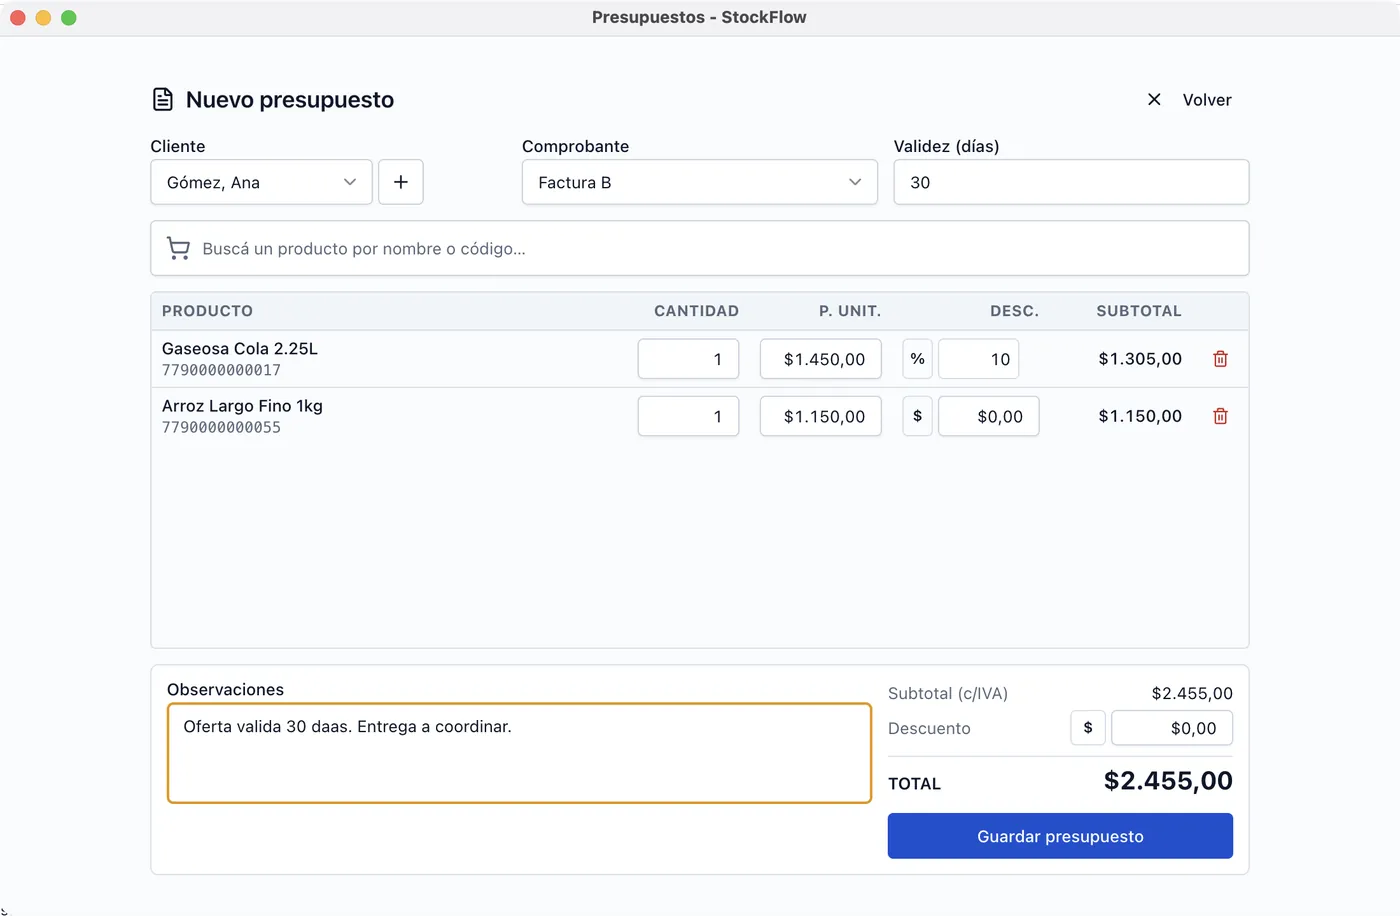
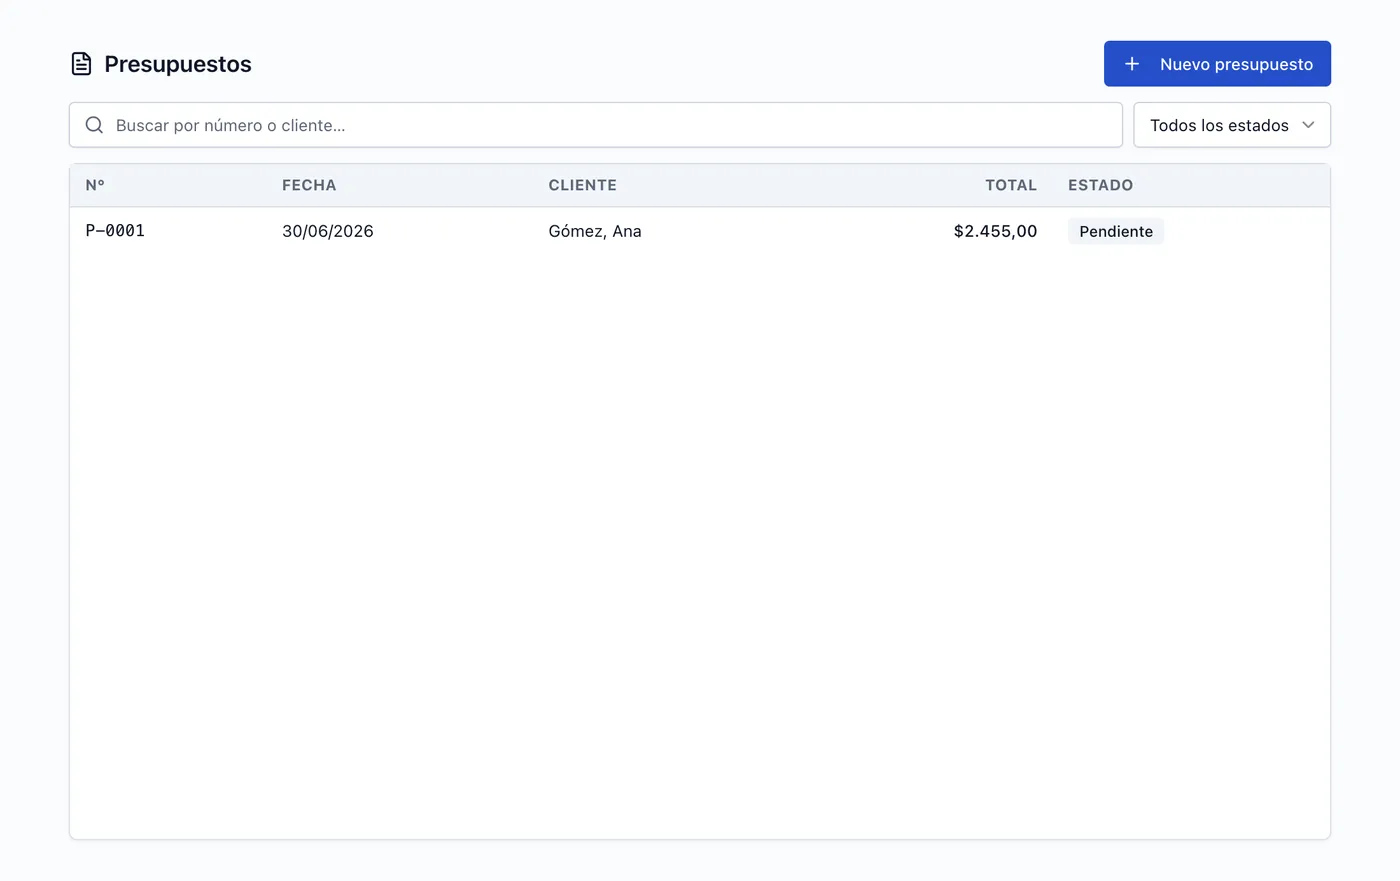
marketing(landing): vuelve el carrusel del hero con capturas NUEVAS de v0.1.87 tomadas de la app real vía CDP
- 9 pantallas recapturadas (retina 2x): PDV con carrito y columna MARCA,
  Artículos con filtro de marcas, CC con Desde/Hasta + 'Cobrar período',
  Presupuestos, Estadísticas, Caja abierta, Contabilidad, Compras, Clientes
- Las secciones de funciones usan las mismas imágenes → también actualizadas
- Se quita el flyer del hero (queda en img/flyer-hero.jpg por si se reusa)

diff --git a/marketing/landing/artifact3.html b/marketing/landing/artifact3.html
@@ -214,8 +214,7 @@ h1.big{font-size:clamp(36px,4.6vw,54px);margin:20px 0 0;} h1.big .hl{color:var(-
 .hero-gal .gbar{height:34px;font-size:12px;} .hero-gal .gdots{margin-top:14px;}
 /* Coverflow 3D */
 .cfbox{width:100%;}
-.cfrow{position:relative;height:480px;margin-top:14px;display:flex;align-items:center;justify-content:center;}
-.hero-flyer{max-width:100%;max-height:100%;width:auto;height:auto;border-radius:16px;box-shadow:0 28px 70px -18px rgba(2,32,71,.35);}
+.cfrow{position:relative;height:480px;margin-top:14px;}
 .cf{position:relative;width:100%;height:100%;perspective:1700px;}
 .cf-card{position:absolute;top:50%;left:50%;width:min(90%,560px);
  transform:translate(-50%,-50%);transform-origin:center center;backface-visibility:hidden;cursor:pointer;
@@ -358,8 +357,9 @@ h1.big{font-size:clamp(36px,4.6vw,54px);margin:20px 0 0;} h1.big .hl{color:var(-
  <div class="shotwrap">
   <div class="cfbox">
    <div class="cfrow">
-    <img class="hero-flyer" src="assets/flyer-hero-1400q84.webp" alt="StockFlow — Todo tu negocio, bajo control: ventas, stock, caja, clientes y reportes"/>
+    <div class="cf" id="cf"><figure class='cf-card' data-i='0'><div class='cwin'><div class='gbar'><span class='gdz'><i></i><i></i><i></i></span><span class='gbt'>StockFlow — Ventas — Punto de venta</span><span class='gzoom'>⤢</span></div><img loading='lazy' src='assets/pdv-1400q80.webp' alt='Ventas — Punto de venta'/></div></figure><figure class='cf-card' data-i='1'><div class='cwin'><div class='gbar'><span class='gdz'><i></i><i></i><i></i></span><span class='gbt'>StockFlow — Artículos y precios</span><span class='gzoom'>⤢</span></div><img loading='lazy' src='assets/articulos-1400q80.webp' alt='Artículos y precios'/></div></figure><figure class='cf-card' data-i='2'><div class='cwin'><div class='gbar'><span class='gdz'><i></i><i></i><i></i></span><span class='gbt'>StockFlow — Cuentas corrientes</span><span class='gzoom'>⤢</span></div><img loading='lazy' src='assets/ctacte-1400q80.webp' alt='Cuentas corrientes'/></div></figure><figure class='cf-card' data-i='3'><div class='cwin'><div class='gbar'><span class='gdz'><i></i><i></i><i></i></span><span class='gbt'>StockFlow — Presupuestos</span><span class='gzoom'>⤢</span></div><img loading='lazy' src='assets/presupuestos-crear-1400q80.webp' alt='Presupuestos'/></div></figure><figure class='cf-card' data-i='4'><div class='cwin'><div class='gbar'><span class='gdz'><i></i><i></i><i></i></span><span class='gbt'>StockFlow — Estadísticas</span><span class='gzoom'>⤢</span></div><img loading='lazy' src='assets/estadisticas-1400q80.webp' alt='Estadísticas'/></div></figure><figure class='cf-card' data-i='5'><div class='cwin'><div class='gbar'><span class='gdz'><i></i><i></i><i></i></span><span class='gbt'>StockFlow — Caja diaria</span><span class='gzoom'>⤢</span></div><img loading='lazy' src='assets/caja-abierta-resumen-1400q80.webp' alt='Caja diaria'/></div></figure><figure class='cf-card' data-i='6'><div class='cwin'><div class='gbar'><span class='gdz'><i></i><i></i><i></i></span><span class='gbt'>StockFlow — Contabilidad y Libro IVA</span><span class='gzoom'>⤢</span></div><img loading='lazy' src='assets/contabilidad-resumen-1400q80.webp' alt='Contabilidad y Libro IVA'/></div></figure><figure class='cf-card' data-i='7'><div class='cwin'><div class='gbar'><span class='gdz'><i></i><i></i><i></i></span><span class='gbt'>StockFlow — Compras</span><span class='gzoom'>⤢</span></div><img loading='lazy' src='assets/compras-principal-1400q80.webp' alt='Compras'/></div></figure><figure class='cf-card' data-i='8'><div class='cwin'><div class='gbar'><span class='gdz'><i></i><i></i><i></i></span><span class='gbt'>StockFlow — Clientes</span><span class='gzoom'>⤢</span></div><img loading='lazy' src='assets/clientes-listado-1400q80.webp' alt='Clientes'/></div></figure></div>
    </div>
+   <div class="gdots" id="gdots"><button class='gdot' data-i='0' aria-label='Pantalla 1'></button><button class='gdot' data-i='1' aria-label='Pantalla 2'></button><button class='gdot' data-i='2' aria-label='Pantalla 3'></button><button class='gdot' data-i='3' aria-label='Pantalla 4'></button><button class='gdot' data-i='4' aria-label='Pantalla 5'></button><button class='gdot' data-i='5' aria-label='Pantalla 6'></button><button class='gdot' data-i='6' aria-label='Pantalla 7'></button><button class='gdot' data-i='7' aria-label='Pantalla 8'></button><button class='gdot' data-i='8' aria-label='Pantalla 9'></button></div>
   </div>
  </div>
 </div></header>

diff --git a/marketing/landing/index3.html b/marketing/landing/index3.html
@@ -214,8 +214,7 @@ h1.big{font-size:clamp(36px,4.6vw,54px);margin:20px 0 0;} h1.big .hl{color:var(-
 .hero-gal .gbar{height:34px;font-size:12px;} .hero-gal .gdots{margin-top:14px;}
 /* Coverflow 3D */
 .cfbox{width:100%;}
-.cfrow{position:relative;height:480px;margin-top:14px;display:flex;align-items:center;justify-content:center;}
-.hero-flyer{max-width:100%;max-height:100%;width:auto;height:auto;border-radius:16px;box-shadow:0 28px 70px -18px rgba(2,32,71,.35);}
+.cfrow{position:relative;height:480px;margin-top:14px;}
 .cf{position:relative;width:100%;height:100%;perspective:1700px;}
 .cf-card{position:absolute;top:50%;left:50%;width:min(90%,560px);
  transform:translate(-50%,-50%);transform-origin:center center;backface-visibility:hidden;cursor:pointer;
@@ -358,8 +357,9 @@ h1.big{font-size:clamp(36px,4.6vw,54px);margin:20px 0 0;} h1.big .hl{color:var(-
  <div class="shotwrap">
   <div class="cfbox">
    <div class="cfrow">
-    <img class="hero-flyer" src="assets/flyer-hero-1400q84.webp" alt="StockFlow — Todo tu negocio, bajo control: ventas, stock, caja, clientes y reportes"/>
+    <div class="cf" id="cf"><figure class='cf-card' data-i='0'><div class='cwin'><div class='gbar'><span class='gdz'><i></i><i></i><i></i></span><span class='gbt'>StockFlow — Ventas — Punto de venta</span><span class='gzoom'>⤢</span></div><img loading='lazy' src='assets/pdv-1400q80.webp' alt='Ventas — Punto de venta'/></div></figure><figure class='cf-card' data-i='1'><div class='cwin'><div class='gbar'><span class='gdz'><i></i><i></i><i></i></span><span class='gbt'>StockFlow — Artículos y precios</span><span class='gzoom'>⤢</span></div><img loading='lazy' src='assets/articulos-1400q80.webp' alt='Artículos y precios'/></div></figure><figure class='cf-card' data-i='2'><div class='cwin'><div class='gbar'><span class='gdz'><i></i><i></i><i></i></span><span class='gbt'>StockFlow — Cuentas corrientes</span><span class='gzoom'>⤢</span></div><img loading='lazy' src='assets/ctacte-1400q80.webp' alt='Cuentas corrientes'/></div></figure><figure class='cf-card' data-i='3'><div class='cwin'><div class='gbar'><span class='gdz'><i></i><i></i><i></i></span><span class='gbt'>StockFlow — Presupuestos</span><span class='gzoom'>⤢</span></div><img loading='lazy' src='assets/presupuestos-crear-1400q80.webp' alt='Presupuestos'/></div></figure><figure class='cf-card' data-i='4'><div class='cwin'><div class='gbar'><span class='gdz'><i></i><i></i><i></i></span><span class='gbt'>StockFlow — Estadísticas</span><span class='gzoom'>⤢</span></div><img loading='lazy' src='assets/estadisticas-1400q80.webp' alt='Estadísticas'/></div></figure><figure class='cf-card' data-i='5'><div class='cwin'><div class='gbar'><span class='gdz'><i></i><i></i><i></i></span><span class='gbt'>StockFlow — Caja diaria</span><span class='gzoom'>⤢</span></div><img loading='lazy' src='assets/caja-abierta-resumen-1400q80.webp' alt='Caja diaria'/></div></figure><figure class='cf-card' data-i='6'><div class='cwin'><div class='gbar'><span class='gdz'><i></i><i></i><i></i></span><span class='gbt'>StockFlow — Contabilidad y Libro IVA</span><span class='gzoom'>⤢</span></div><img loading='lazy' src='assets/contabilidad-resumen-1400q80.webp' alt='Contabilidad y Libro IVA'/></div></figure><figure class='cf-card' data-i='7'><div class='cwin'><div class='gbar'><span class='gdz'><i></i><i></i><i></i></span><span class='gbt'>StockFlow — Compras</span><span class='gzoom'>⤢</span></div><img loading='lazy' src='assets/compras-principal-1400q80.webp' alt='Compras'/></div></figure><figure class='cf-card' data-i='8'><div class='cwin'><div class='gbar'><span class='gdz'><i></i><i></i><i></i></span><span class='gbt'>StockFlow — Clientes</span><span class='gzoom'>⤢</span></div><img loading='lazy' src='assets/clientes-listado-1400q80.webp' alt='Clientes'/></div></figure></div>
    </div>
+   <div class="gdots" id="gdots"><button class='gdot' data-i='0' aria-label='Pantalla 1'></button><button class='gdot' data-i='1' aria-label='Pantalla 2'></button><button class='gdot' data-i='2' aria-label='Pantalla 3'></button><button class='gdot' data-i='3' aria-label='Pantalla 4'></button><button class='gdot' data-i='4' aria-label='Pantalla 5'></button><button class='gdot' data-i='5' aria-label='Pantalla 6'></button><button class='gdot' data-i='6' aria-label='Pantalla 7'></button><button class='gdot' data-i='7' aria-label='Pantalla 8'></button><button class='gdot' data-i='8' aria-label='Pantalla 9'></button></div>
   </div>
  </div>
 </div></header>

diff --git a/marketing/landing/build_landing.py b/marketing/landing/build_landing.py
@@ -29,7 +29,6 @@ def font(f): return base64.b64encode(open(os.path.join(W,'fonts',f),'rb').read()
 PDV=img('pdv.png'); ART=img('articulos.png'); CTA_=img('ctacte.png'); PRES=img('presupuesto.png'); EST=img('estadisticas.png')
 CAJA2=img('caja-abierta-resumen.png'); CONTA=img('contabilidad-resumen.png'); COMPRAS=img('compras-principal.png'); CLIENTES=img('clientes-listado.png')
 LOGO=img('logo-full.png', maxw=760, lossless=True); CUBE=img('cube-hd.png', maxw=800, lossless=True)
-FLYER=img('flyer-hero.jpg', maxw=1400, q=84)
 WA="https://wa.me/543425847340?text=Hola!%20Quiero%20probar%20StockFlow%20en%20mi%20comercio"
 CUBE_HTML=("<div class='cube3d' aria-hidden='true'><div class='c-halo'></div>"
  "<div class='c-scene'><div class='c-cube'>"
@@ -307,8 +306,7 @@ h1.big{{font-size:clamp(36px,4.6vw,54px);margin:20px 0 0;}} h1.big .hl{{color:va
 .hero-gal .gbar{{height:34px;font-size:12px;}} .hero-gal .gdots{{margin-top:14px;}}
 /* Coverflow 3D */
 .cfbox{{width:100%;}}
-.cfrow{{position:relative;height:480px;margin-top:14px;display:flex;align-items:center;justify-content:center;}}
-.hero-flyer{{max-width:100%;max-height:100%;width:auto;height:auto;border-radius:16px;box-shadow:0 28px 70px -18px rgba(2,32,71,.35);}}
+.cfrow{{position:relative;height:480px;margin-top:14px;}}
 .cf{{position:relative;width:100%;height:100%;perspective:1700px;}}
 .cf-card{{position:absolute;top:50%;left:50%;width:min(90%,560px);
  transform:translate(-50%,-50%);transform-origin:center center;backface-visibility:hidden;cursor:pointer;
@@ -485,8 +483,9 @@ BODY=f"""
  <div class="shotwrap">
   <div class="cfbox">
    <div class="cfrow">
-    <img class="hero-flyer" src="{FLYER}" alt="StockFlow — Todo tu negocio, bajo control: ventas, stock, caja, clientes y reportes"/>
+    <div class="cf" id="cf">{GAL_SLIDES}</div>
    </div>
+   <div class="gdots" id="gdots">{GAL_DOTS}</div>
   </div>
  </div>
 </div></header>
